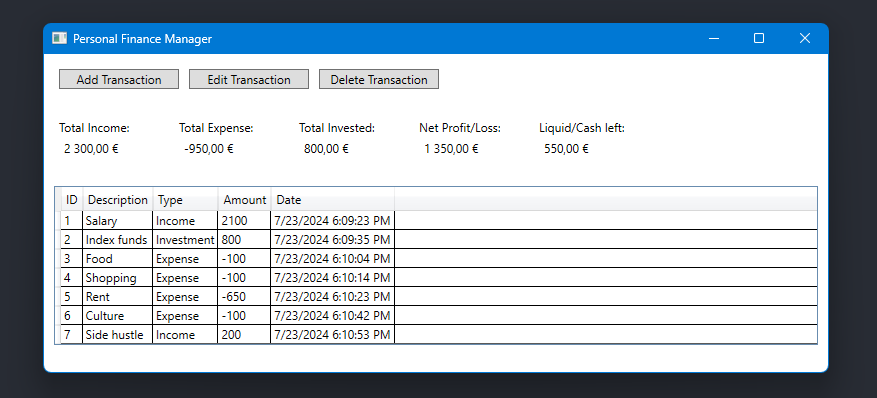
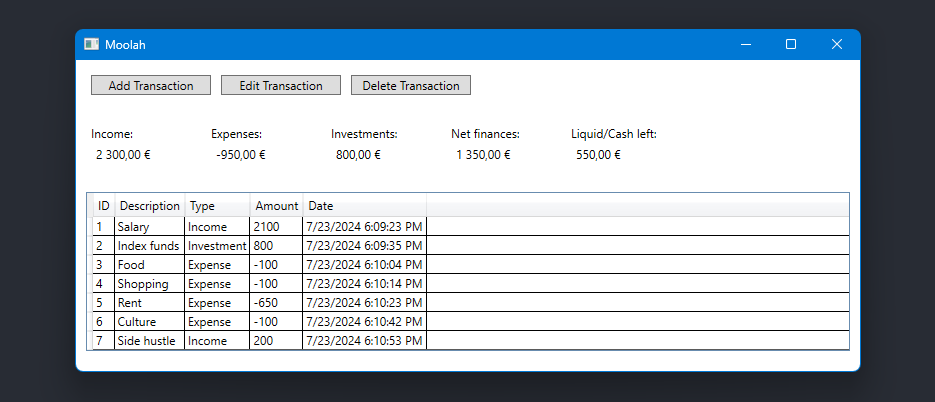
Update text

diff --git a/MainWindow.xaml b/MainWindow.xaml
@@ -17,19 +17,19 @@
 
         <StackPanel Orientation="Horizontal" Margin="10" Grid.Row="1">
             <StackPanel Orientation="Vertical" Margin="5">
-                <TextBlock Text="Total Income:" VerticalAlignment="Center"/>
+                <TextBlock Text="Income:" VerticalAlignment="Center"/>
                 <TextBlock Name="textBlockTotalIncome" Width="100" Margin="5" VerticalAlignment="Center"/>
             </StackPanel>
             <StackPanel Orientation="Vertical" Margin="5">
-                <TextBlock Text="Total Expense:" VerticalAlignment="Center"/>
+                <TextBlock Text="Expenses:" VerticalAlignment="Center"/>
                 <TextBlock Name="textBlockTotalExpense" Width="100" Margin="5" VerticalAlignment="Center"/>
             </StackPanel>
             <StackPanel Orientation="Vertical" Margin="5">
-                <TextBlock Text="Total Invested:" VerticalAlignment="Center"/>
+                <TextBlock Text="Investments:" VerticalAlignment="Center"/>
                 <TextBlock Name="textBlockTotalInvested" Width="100" Margin="5" VerticalAlignment="Center"/>
             </StackPanel>
             <StackPanel Orientation="Vertical" Margin="5">
-                <TextBlock Text="Net Profit/Loss:" VerticalAlignment="Center"/>
+                <TextBlock Text="Net finances:" VerticalAlignment="Center"/>
                 <TextBlock Name="textBlockNetProfitLoss" Width="100" Margin="5" VerticalAlignment="Center"/>
             </StackPanel>
             <StackPanel Orientation="Vertical" Margin="5">
